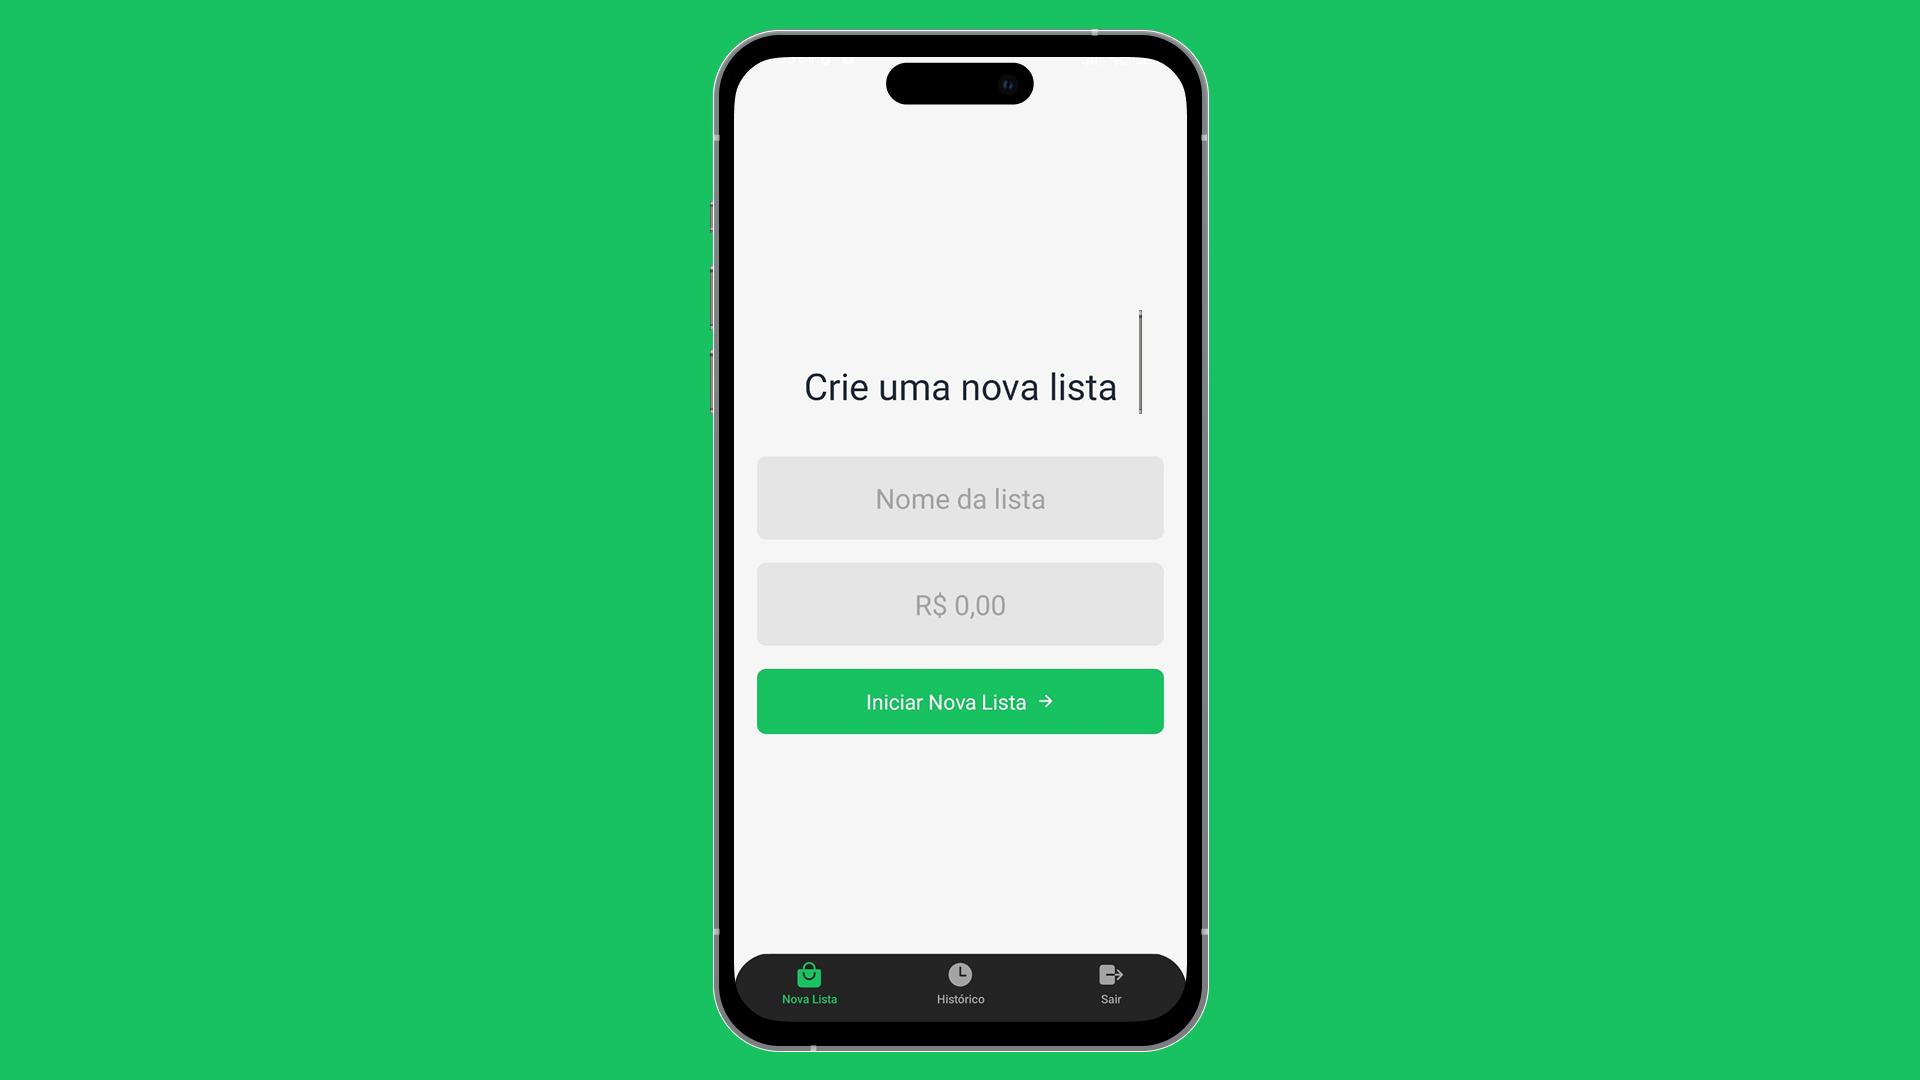
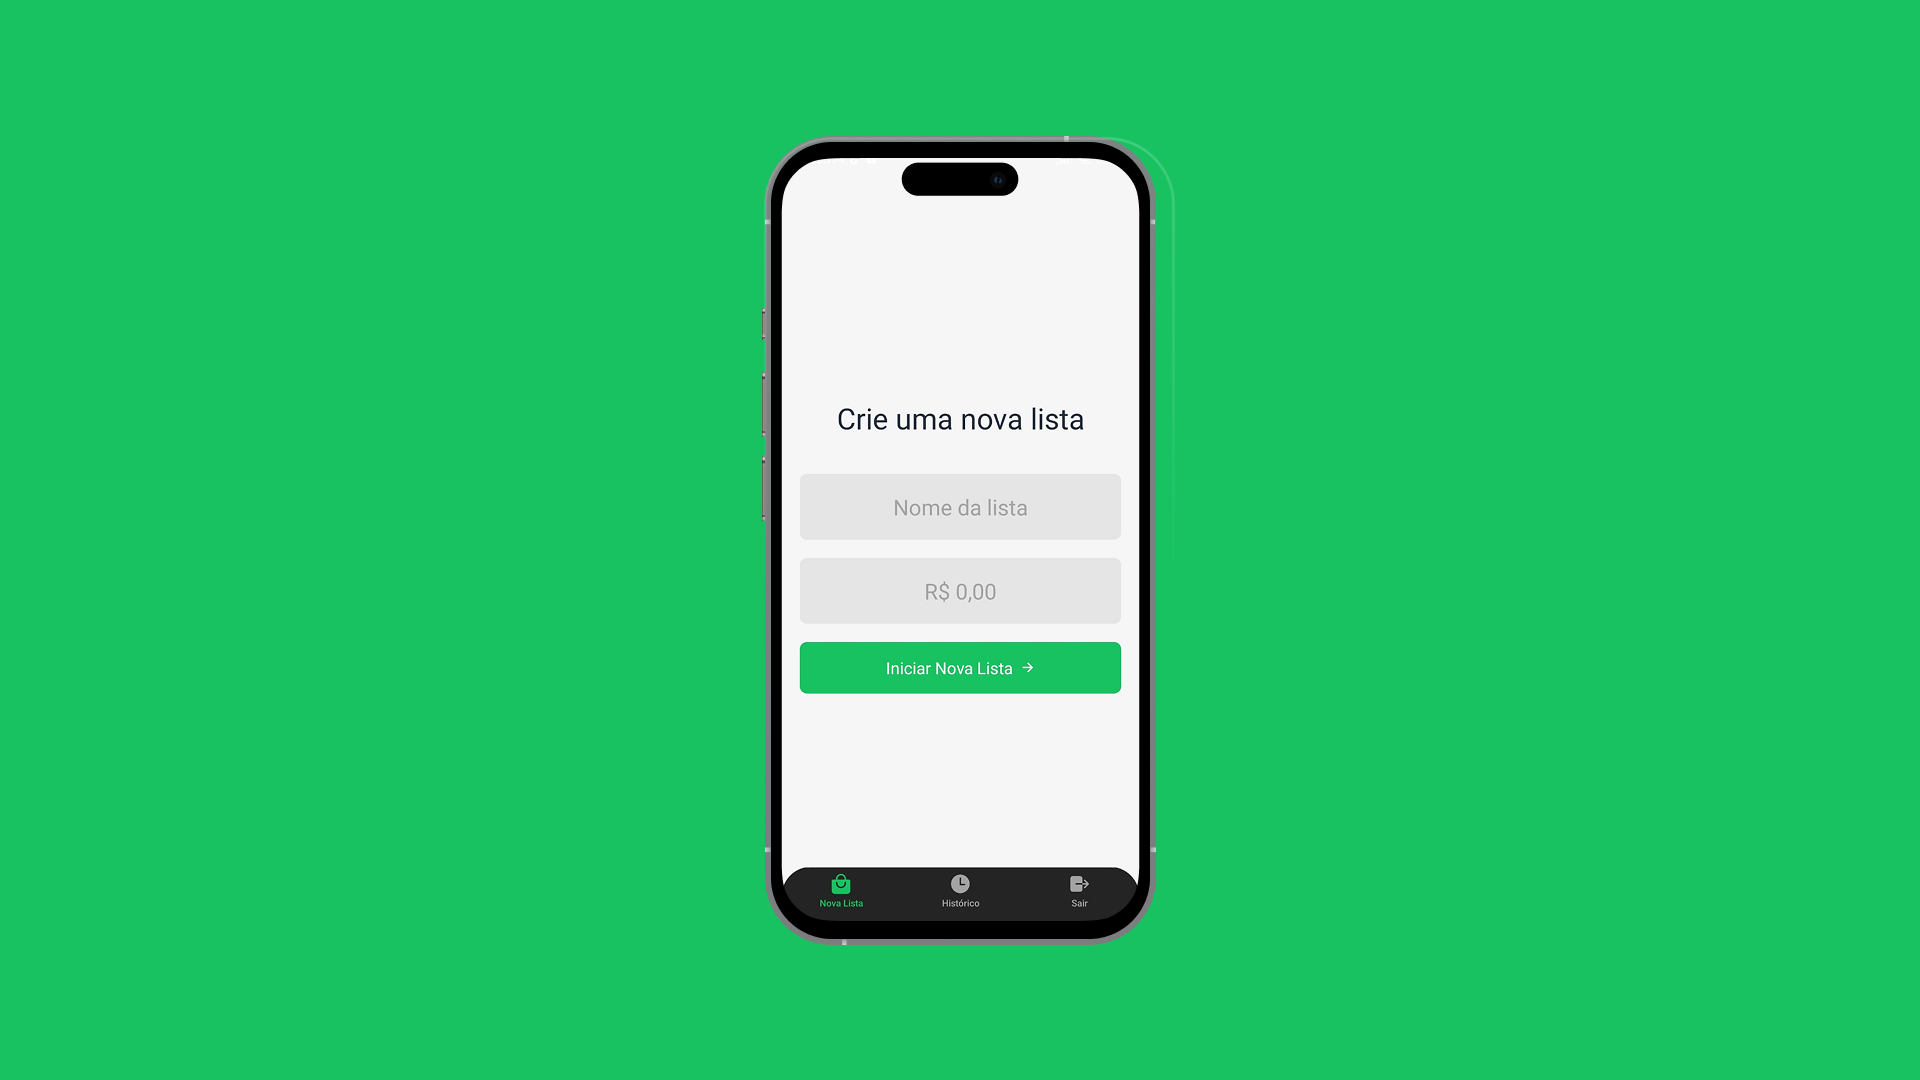
update

Changed region(s): [[0.3438, 0.0, 0.6562, 0.9778], [0.4688, 0.4583, 0.5312, 0.4889]]

diff --git a/app/components/language-provider.tsx b/app/components/language-provider.tsx
@@ -7,11 +7,28 @@ type Locale = 'pt-BR' | 'en'
 type Dictionary = {
   home: {
     role: string
+    summary: string
+    skills: string
+    certifications: string
     education: string
     experience: string
     techStack: string
     projects: string
     blog: string
+  }
+  summary: {
+    text: string
+  }
+  skills: {
+    text: string
+  }
+  certifications: {
+    awsTitle: string
+    awsUrl: string
+    aiAssistedTitle: string
+    aiAssistedUrl: string
+    genAiTitle: string
+    genAiUrl: string
   }
   experience: {
     now: string
@@ -42,20 +59,40 @@ const dictionaries: Record<Locale, Dictionary> = {
   'en': {
     home: {
       role: 'Developer',
+      summary: 'Summary',
+      skills: 'Skills',
+      certifications: 'Certifications',
       education: 'Education',
       experience: 'Experience',
       techStack: 'Tech Stack',
       projects: 'Projects',
       blog: 'Blog',
     },
+    summary: {
+      text: 'Full-Stack Developer with a Front-End focus, 2+ years of experience, and enthusiastic about building modern, scalable SaaS products. Seeking opportunities to grow technically, collaborate with high-performing teams, and contribute to high-impact projects.',
+    },
+    skills: {
+      text: 'Next.js | React.js | TypeScript | Node.js | AWS | Git | Scrum | Kanban | Docker | AI/ML | REST APIs | PostgreSQL | CI/CD | Grafana | Redux / Zustand | React Query / TanStack Query | Jest / Vitest | Python | Django | Express.js | NestJS | Go',
+    },
+    certifications: {
+      awsTitle: 'AWS Certified Cloud Practitioner',
+      awsUrl:
+        'https://cp.certmetrics.com/amazon/en/public/verify/credential/b09f3b267d6c43dca183f0d0f1822cee',
+      aiAssistedTitle: 'AI-Assisted Certified Professional',
+      aiAssistedUrl:
+        'https://learning.compass.uol/admin/tool/certificate/view.php?code=2658723567JR',
+      genAiTitle: 'GenAI Technical Certification',
+      genAiUrl:
+        'https://learning.compass.uol/admin/tool/certificate/view.php?code=4955219298JR',
+    },
     experience: {
       now: 'Now',
-      sintesyTitle: 'Co-Founder @ Sintesy',
+      sintesyTitle: 'Front-End Developer - Sintesy',
       sintesyDescription:
-        'Creation of optimized landing pages with Astro and React, increasing conversion rates and improving SEO.\n\nFull development of the web platform with Next.js 15 (App Router), TanStack Query, Nuqs, React, TailwindCSS, Context API, Zod, and React Hook Form, integration with REST APIs via Axios.\n\nScreen design in Figma following usability heuristics and Design System.\n\nImplementation of CI/CD pipelines that optimized build and deploy time on AWS.\n\nLeader of strategic initiatives and positioning, contributing significantly to the expansion of the user base, impacting more than 4,300 leads.\n\nParticipation in startup acceleration programs such as SebraeLAB and CriarCE strengthening product and business evolution.',
-      compassTitle: 'Artificial Intelligence with AWS @ Compass UOL',
+        'Advanced use of AI agents (Windsurf, Cursor).\n\nAdvanced prompt engineering techniques and intensive AI-assisted code generation.\n\nOrchestration of agents and multi-agent workflows (Roles, Skills, Plan Mode, MCP).\n\nBuilding optimized landing pages with Astro and React.\n\nBuilding a blog with Astro to index more pages.\n\nLanding page internationalization with i18n, supporting multiple languages.\n\nEnd-to-end development of the platform using Next.js 16 (App Router), TanStack Query, Nuqs, React, Tailwind CSS, Context API, Zod, and React Hook Form.\n\nUsing modern frontend rendering strategies: SSG and SSR.\n\nImplementing embedded Stripe checkout.\n\nBackend + frontend API integrations (e.g. Meta Ads conversions).\n\nDesigning screens in Figma following usability heuristics and a Design System.\n\nImplementing CI/CD pipelines and deploying to AWS.\n\nImplementing frontend observability with Grafana and Prometheus.',
+      compassTitle: 'AI & ML with AWS Intern - Compass UOL',
       compassDescription:
-        'End-to-end development of intelligent chatbots, from conception to production delivery, working on both frontend and backend.\n\nUsing Python and Node.js, with libraries like LangChain for creating advanced conversational flows, integration with AWS Bedrock language models and orchestration of dynamic prompts using AWS Lambda and API Gateway, with S3 for storage.\n\nCreation of dedicated web servers on EC2, configuring containerized environments with Docker and Node.js, optimizing images to reduce build and deploy time.\n\nImplementation, monitoring, and real-time observability with CloudWatch Logs, creating metrics and alarms for critical events.\n\nParticipation in agile sprints with Scrum and Kanban, conducting daily meetings, refinements, and incremental deliveries aligned with demands and deadlines.',
+        'End-to-end development of intelligent chatbots, working across frontend and backend.\n\nUsing Python and Node.js, with libraries like LangChain to build conversational flows.\n\nIntegrating with AWS Bedrock language models.\n\nOrchestrating dynamic prompts with AWS Lambda and API Gateway.\n\nUsing S3 for storage.\n\nManaging EC2, setting up containerized environments with Docker and Node.js.\n\nImplementing monitoring and real-time observability with CloudWatch Logs.\n\nParticipating in agile sprints with Scrum and Kanban (daily meetings, refinements, and deliveries).',
     },
     education: {
       bachelorsTitle: "Bachelor's in Information Systems",
@@ -77,20 +114,40 @@ const dictionaries: Record<Locale, Dictionary> = {
   'pt-BR': {
     home: {
       role: 'Desenvolvedor',
+      summary: 'Resumo',
+      skills: 'Habilidades',
+      certifications: 'Certificações',
       education: 'Formação',
       experience: 'Experiência',
       techStack: 'Stack',
       projects: 'Projetos',
       blog: 'Blog',
     },
+    summary: {
+      text: 'Desenvolvedor Full-Stack com foco em Front-End, +2 anos de experiência, entusiasta em soluções SaaS, Web modernas e escaláveis. Busco oportunidades para evoluir tecnicamente, colaborar com times de alto nível e contribuir para projetos de grande impacto.',
+    },
+    skills: {
+      text: 'Next.js | React.js | TypeScript | Node.js | AWS | Git | Scrum | Kanban | Docker | AI/ML | REST APIs | PostgreSQL | CI/CD | Grafana | Redux / Zustand | React Query / TanStack Query | Jest / Vitest | Python | Django | Express.js | NestJS | Go',
+    },
+    certifications: {
+      awsTitle: 'AWS Certified Cloud Practitioner',
+      awsUrl:
+        'https://cp.certmetrics.com/amazon/en/public/verify/credential/b09f3b267d6c43dca183f0d0f1822cee',
+      aiAssistedTitle: 'AI-Assisted Certified Professional',
+      aiAssistedUrl:
+        'https://learning.compass.uol/admin/tool/certificate/view.php?code=2658723567JR',
+      genAiTitle: 'GenAI Technical Certification',
+      genAiUrl:
+        'https://learning.compass.uol/admin/tool/certificate/view.php?code=4955219298JR',
+    },
     experience: {
       now: 'Atual',
-      sintesyTitle: 'Co-Fundador @ Sintesy',
+      sintesyTitle: 'Desenvolvedor Front-End - Sintesy',
       sintesyDescription:
-        'Criação de landing pages otimizadas com Astro e React, aumentando a taxa de conversão e melhorando SEO.\n\nDesenvolvimento completo da plataforma web com Next.js 15 (App Router), TanStack Query, Nuqs, React, TailwindCSS, Context API, Zod e React Hook Form, com integração a APIs REST via Axios.\n\nDesign de telas no Figma seguindo heurísticas de usabilidade e Design System.\n\nImplementação de pipelines de CI/CD que otimizaram tempo de build e deploy na AWS.\n\nLiderança de iniciativas estratégicas e posicionamento, contribuindo significativamente para expansão da base de usuários, impactando mais de 4.300 leads.\n\nParticipação em programas de aceleração de startups como SebraeLAB e CriarCE, fortalecendo a evolução do produto e do negócio.',
-      compassTitle: 'Inteligência Artificial com AWS @ Compass UOL',
+        'Uso avançado de agentes de AI (Windsurf, Cursor).\n\nTécnicas avançadas de prompt engineering, geração intensiva de código com AI.\n\nOrquestração de agentes e multiagentes, Roles, Skills, Plan Mode, MCP.\n\nCriação de landing pages otimizadas com Astro e React.\n\nCriação de blog usando Astro para indexar mais páginas.\n\nInternacionalização da landing page com i18n, suportando vários idiomas.\n\nDesenvolvimento completo da plataforma utlizando Next.js 16 (App Router), TanStack Query, Nuqs, React, Tailwind CSS, Context API, Zod e React Hook Form.\n\nUso das mais atualizadas formas de renderização no frontend: SSG, SSR.\n\nImplementação de checkout transparente com Stripe.\n\nIntegração backend + frontend de APIs, como: conversões do Meta Ads.\n\nDesenho de telas no Figma seguindo heurísticas de usabilidade e Design System.\n\nImplementação de pipelines de CI/CD, e deploy na AWS.\n\nImplementação de observabilidade frontend com Grafana e Prometheus.',
+      compassTitle: 'Estágio AI & ML with AWS – Compass UOL',
       compassDescription:
-        'Desenvolvimento end-to-end de chatbots inteligentes, da concepção à entrega em produção, atuando em frontend e backend.\n\nUso de Python e Node.js, com bibliotecas como LangChain para criar fluxos conversacionais avançados, integração com modelos de linguagem da AWS Bedrock e orquestração de prompts dinâmicos usando AWS Lambda e API Gateway, com S3 para armazenamento.\n\nCriação de servidores dedicados em EC2, configurando ambientes containerizados com Docker e Node.js, otimizando imagens para reduzir tempo de build e deploy.\n\nImplementação, monitoramento e observabilidade em tempo real com CloudWatch Logs, criando métricas e alarmes para eventos críticos.\n\nParticipação em sprints ágeis com Scrum e Kanban, conduzindo dailies, refinements e entregas incrementais alinhadas às demandas e prazos.',
+        'Desenvolvimento de chatbots inteligentes de ponta a ponta, atuando no frontend e backend.\n\nUtilizando Python e Node.js, com bibliotecas como LangChain para criação de fluxos conversacionais.\n\nIntegração com modelos de linguagem do AWS Bedrock.\n\nOrquestração de prompts dinâmicos utilizando AWS Lambda e API Gateway.\n\nS3 para armazenamento.\n\nGerenciamento de EC2, configurando ambientes conteinerizados com Docker e Nodejs.\n\nImplementação e monitoramento e observabilidade em tempo real com CloudWatch Logs.\n\nParticipação de sprints ágeis com Scrum e Kanban, Daily Meetings, refinamentos e entregas.',
     },
     education: {
       bachelorsTitle: 'Bacharelado em Sistemas de Informação',

diff --git a/app/page.tsx b/app/page.tsx
@@ -9,8 +9,9 @@ import {
   IconArrowUpRight,
   IconBrandGithub,
   IconBrandLinkedin,
-  IconChevronUpRight,
+  IconBrandYoutube,
   IconMail,
+  IconWorld,
 } from '@tabler/icons-react'
 import { motion } from 'framer-motion'
 import Link from 'next/link'
@@ -61,18 +62,66 @@ export default function Component() {
                   <IconBrandGithub className="size-5" />
                 </Link>
                 <Link
-                  href="https://www.instagram.com/skrodrigo"
+                  href="https://youtube.com/@skrdg"
                   target="_blank"
                   rel="noopener noreferrer"
                   className="bg-zinc-900 p-2 rounded-none border"
                 >
-                  <IconMail className="size-5" />
+                  <IconBrandYoutube className="size-5 fill" />
                 </Link>
               </div>
             </div>
           </div>
         </aside>
         <main className="flex-1 p-4 md:p-8 space-y-8 overflow-y-auto md:border-r">
+          <motion.section
+            initial={{ y: 20, opacity: 0 }}
+            animate={{ y: 0, opacity: 1 }}
+            transition={{ delay: 0.1 }}
+          >
+            <h2 className="text-xl font-semibold mb-4 text-white">{t.home.summary}</h2>
+            <p className="text-sm text-zinc-400 max-w-2xl">{t.summary.text}</p>
+          </motion.section>
+          <motion.section
+            initial={{ y: 20, opacity: 0 }}
+            animate={{ y: 0, opacity: 1 }}
+            transition={{ delay: 0.18 }}
+          >
+            <h2 className="text-xl font-semibold mb-4 text-white">
+              {t.home.certifications}
+            </h2>
+            <div className="space-y-2">
+              <Link
+                href={t.certifications.awsUrl}
+                target="_blank"
+                rel="noopener noreferrer"
+                className="text-sm group text-zinc-300 hover:underline inline-flex items-center"
+              >
+                {t.certifications.awsTitle}
+                <IconArrowUpRight className="h-3 w-3 ml-1 group-hover:-translate-y-0.5 group-hover:translate-x-0.5 transition-transform" />
+              </Link>
+              <br />
+              <Link
+                href={t.certifications.aiAssistedUrl}
+                target="_blank"
+                rel="noopener noreferrer"
+                className="text-sm group text-zinc-300 hover:underline inline-flex items-center"
+              >
+                {t.certifications.aiAssistedTitle}
+                <IconArrowUpRight className="h-3 w-3 ml-1 group-hover:-translate-y-0.5 group-hover:translate-x-0.5 transition-transform" />
+              </Link>
+              <br />
+              <Link
+                href={t.certifications.genAiUrl}
+                target="_blank"
+                rel="noopener noreferrer"
+                className="text-sm group text-zinc-300 hover:underline inline-flex items-center"
+              >
+                {t.certifications.genAiTitle}
+                <IconArrowUpRight className="h-3 w-3 ml-1 group-hover:-translate-y-0.5 group-hover:translate-x-0.5 transition-transform" />
+              </Link>
+            </div>
+          </motion.section>
           <motion.section
             initial={{ y: 20, opacity: 0 }}
             animate={{ y: 0, opacity: 1 }}

diff --git a/app/data/projects.ts b/app/data/projects.ts
@@ -26,7 +26,7 @@ const projectsLocalized: ProjectLocalized[] = [
       'Zod',
       'React Hook Form',
     ],
-    colorBadge: 'bg-sky-500/20 text-sky-500',
+    colorBadge: 'bg-zinc-500/20 text-zinc-100',
   },
   {
     title: 'Sacola',
@@ -104,31 +104,6 @@ const projectsLocalized: ProjectLocalized[] = [
       'React Hook Form',
     ],
     colorBadge: 'bg-amber-500/5 text-amber-300',
-  },
-  {
-    title: 'Genesis',
-    description: {
-      en: 'Genesis is a SaaS for generating Front End interfaces using artificial intelligence.',
-      'pt-BR': 'Genesis é um SaaS para gerar interfaces Front End usando inteligência artificial.',
-    },
-    image: '/genesis.png',
-    linkGithub: 'https://github.com/skrodrigo/genesis',
-    technologies: [
-      'Next.js',
-      'Prisma',
-      'Shadcn',
-      'BetterAuth',
-      'Tailwind CSS',
-      'Shadcn UI',
-      'AI-SDK',
-      'Stripe',
-      'Resend',
-      'NeonDB',
-      'Nuqs',
-      'Zod',
-      'React Hook Form',
-    ],
-    colorBadge: 'bg-violet-500/20 text-violet-500',
   },
 ]
 
